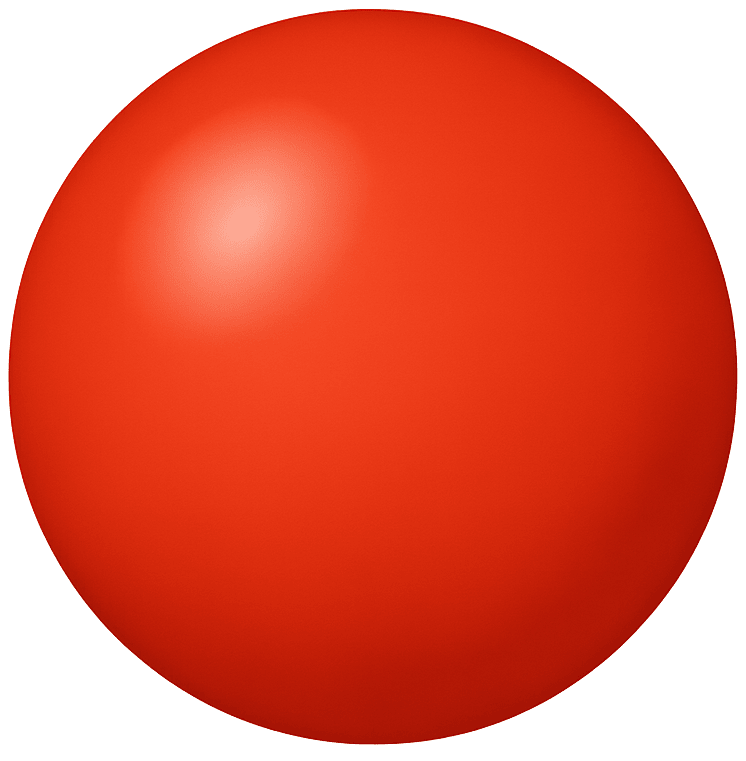
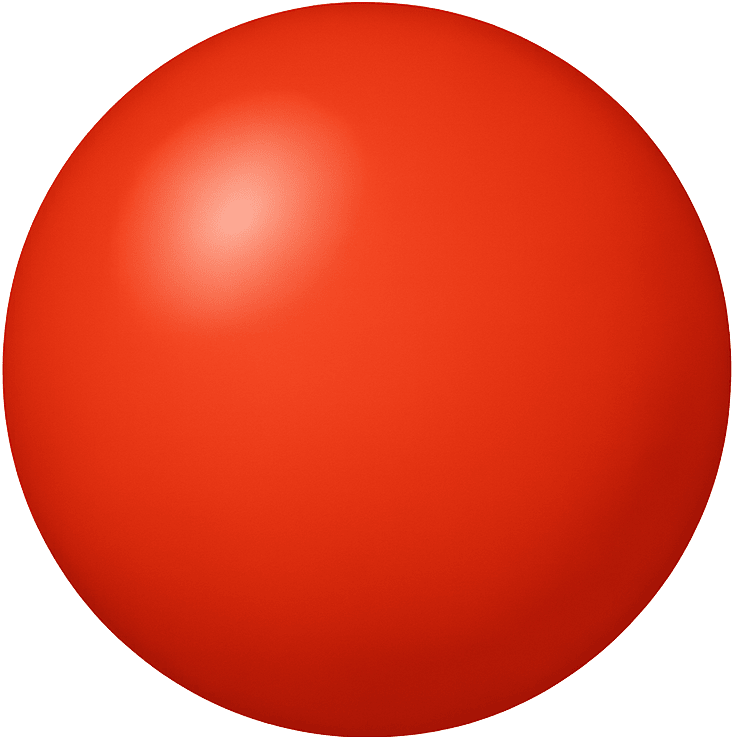
Input System : Added reset position functionality on pressing "R".

diff --git a/src/ecs/systems/GameLogic.cpp b/src/ecs/systems/GameLogic.cpp
@@ -4,6 +4,8 @@
 
 #include "GameLogic.h"
 
+#include "../factories/factory.h"
+
 void GameLogic::processPlatformCollision(bool isBeginCollision) {
     if (isBeginCollision) {
         allowJump = true;
@@ -43,6 +45,19 @@ void GameLogic::moveRight(const PhysicsData &physicsData) const {
     b2Body_ApplyLinearImpulseToCenter(physicsData._physicsBodyId, impulse, true);
 }
 
+void GameLogic::resetPosition(const PhysicsData &physicsData, const float x, const float y, const float w, const float h) const {
+    const b2Vec2 center = {
+        px_to_m(x + w / 2.0f),
+        px_to_m(y + h / 2.0f)
+    };
+
+    b2Body_SetTransform(physicsData._physicsBodyId, center, b2MakeRot(0.0f));
+    b2Body_SetLinearVelocity(physicsData._physicsBodyId, {0.0f, 0.0f});
+    b2Body_SetAngularVelocity(physicsData._physicsBodyId, 0.0f);
+    b2Body_SetAwake(physicsData._physicsBodyId, true);
+}
+
+
 void GameLogic::applyInputActions(const entt::registry &registry) const {
     auto view = registry.view<PhysicsData, MetaData>();
     for (auto [entity, physicsData, metaData] : view.each()) {
@@ -55,6 +70,9 @@ void GameLogic::applyInputActions(const entt::registry &registry) const {
                 break;
             case Command::MOVE_RIGHT:
                 moveRight(physicsData);
+                break;
+            case Command::RESET_POSITION:
+                resetPosition(physicsData, 500.0f, 400.0f, BALL_WIDTH, BALL_HEIGHT);
                 break;
         }
 

diff --git a/src/main.cpp b/src/main.cpp
@@ -153,9 +153,6 @@ int main(int argc, char* argv[])
 
     while (running)
     {
-        // update physics world
-        physicsSystem->updatePhysics();
-
         // process events
         while (SDL_PollEvent(&event))
         {
@@ -175,9 +172,12 @@ int main(int argc, char* argv[])
             }
         }
 
-        gameLogicSystem->checkPhysicsEvents(physicsSystem->getWorldId(), registry);
         inputSystem->processInput(registry); // determine commands
         gameLogicSystem->applyInputActions(registry); // apply commands logic
+
+        gameLogicSystem->checkPhysicsEvents(physicsSystem->getWorldId(), registry);
+
+        physicsSystem->updatePhysics(); // update physics world
         physicsSystem->syncPhysicsWithRendering(registry); // sync rendering
 
         // clear before rendering

diff --git a/src/ecs/components/components.hpp b/src/ecs/components/components.hpp
@@ -24,7 +24,8 @@ namespace components {
         JUMP = 0,
         MOVE_LEFT = 1,
         MOVE_RIGHT = 2,
-        EMPTY_COMMAND = 3
+        RESET_POSITION = 3,
+        EMPTY_COMMAND = 4
     };
 
     struct PhysicsData {

diff --git a/src/ecs/systems/InputSystem.cpp b/src/ecs/systems/InputSystem.cpp
@@ -17,6 +17,9 @@ void InputSystem::_handleManualInput(const MetaData &metaData) const {
         case SDLK_RIGHT:
             metaData._currentCommand = Command::MOVE_RIGHT;
             break;
+        case SDLK_R:
+            metaData._currentCommand = Command::RESET_POSITION;
+            break;
         default:
             metaData._currentCommand = Command::EMPTY_COMMAND;
     }

diff --git a/src/ecs/factories/factory.cpp b/src/ecs/factories/factory.cpp
@@ -27,7 +27,7 @@ PhysicsData Factory::createPhysicsData(const float x, const float y, const float
     if (isDynamic) {
         data._shapeDef.density = 40.0f;
         data._shapeDef.material.friction = 1.2f;
-        data._shapeDef.material.restitution = 0.5f;
+        data._shapeDef.material.restitution = 0.25f;
         data._shapeDef.enableContactEvents = true;
     } else {
         data._shapeDef.density = 0.0f;

diff --git a/src/ecs/systems/GameLogic.h b/src/ecs/systems/GameLogic.h
@@ -26,6 +26,7 @@ private:
     void jump(const PhysicsData &physicsData) const;
     void moveLeft(const PhysicsData &physicsData) const;
     void moveRight(const PhysicsData &physicsData) const;
+    void resetPosition(const PhysicsData &physicsData, const float x, const float y, const float w, const float h) const;
 
 public:
     void applyInputActions(const entt::registry &registry) const;